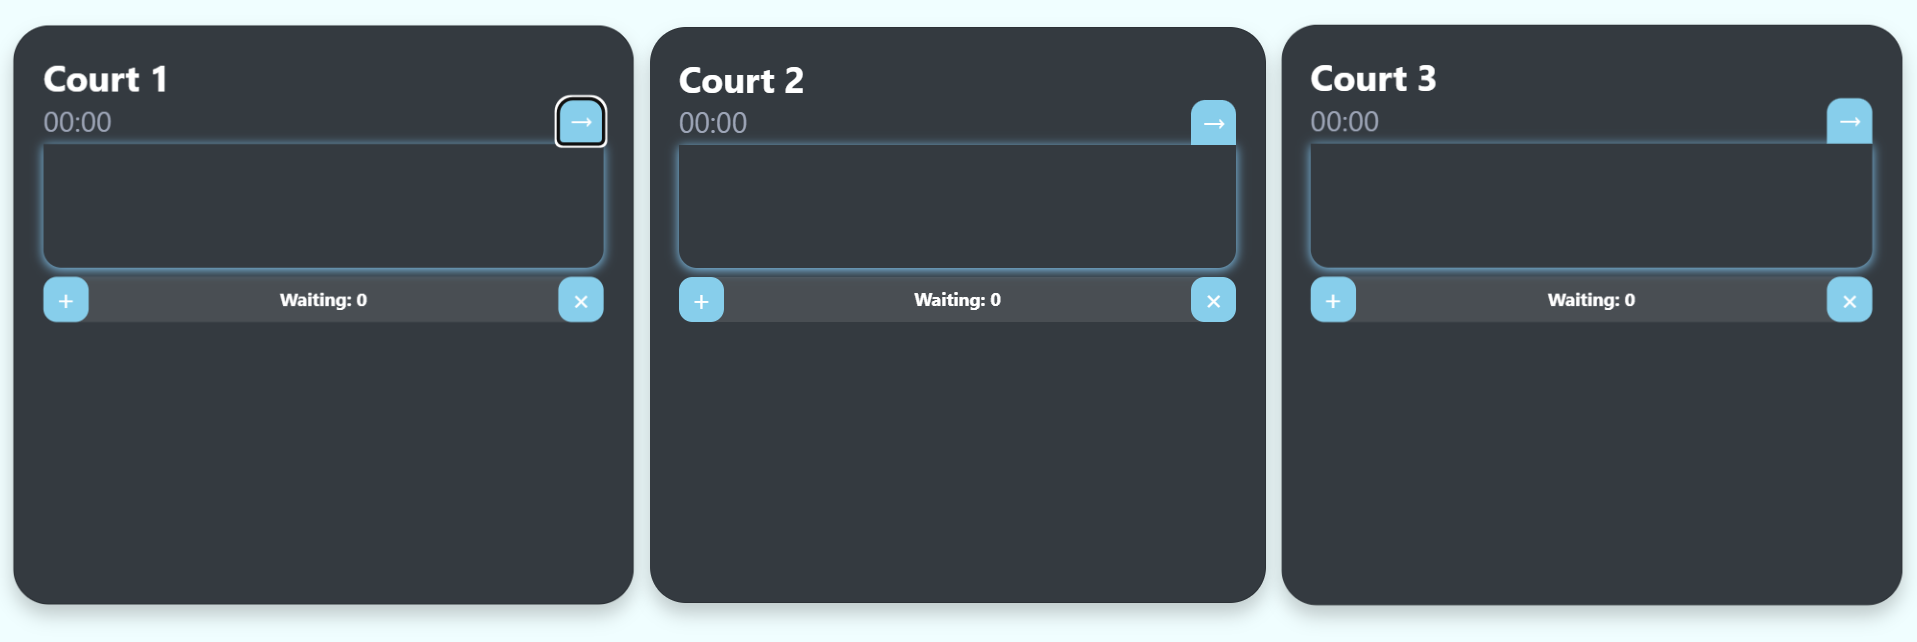
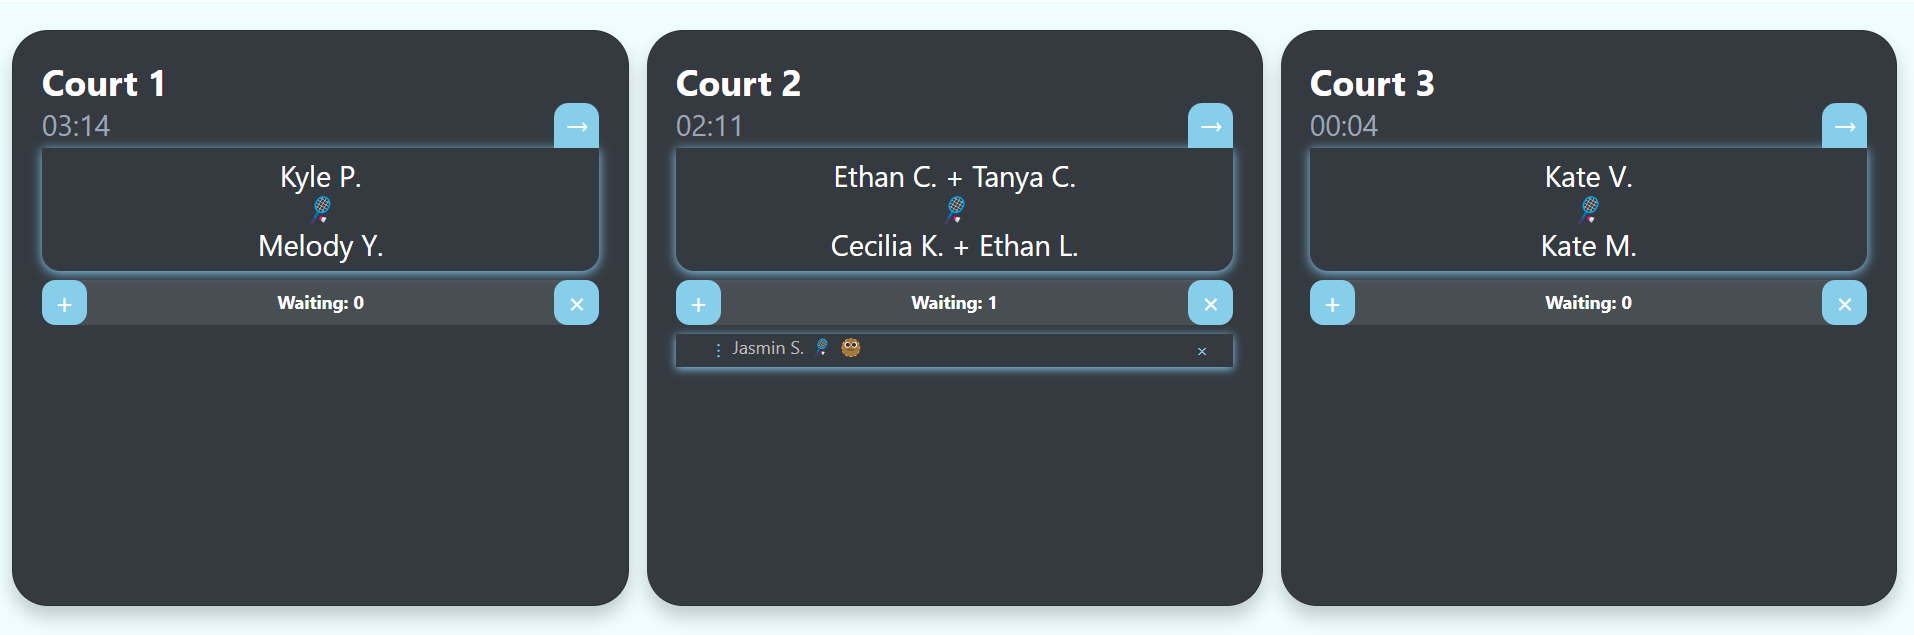
adjusted UI for mobiel

diff --git a/src/components/Timer/Timer.js b/src/components/Timer/Timer.js
@@ -4,23 +4,25 @@ import './Timer.css';
 
 const Timer = forwardRef((props, ref) => {
   const { title } = props;
-  const [start, setStart] = useState(
+  const [startTime, setStartTime] = useState(
     parseInt(localStorage.getItem(`timer-${title}-start`), 10) || Date.now()
   );
-  const [time, setTime] = useState(parseInt(localStorage.getItem(`timer-${title}-time`), 10) || 0);
+  const [elapsedTime, setElapsedTime] = useState(
+    parseInt(localStorage.getItem(`timer-${title}-elapsed`), 10) || 0
+  );
   const [running, setRunning] = useState(
-    localStorage.getItem(`timer-${title}`) === 'true' || false
+    localStorage.getItem(`timer-${title}-running`) === 'true' || false
   );
 
   useImperativeHandle(ref, () => ({
     reset() {
-      setTime(0);
-      setStart(Date.now());
+      setElapsedTime(0);
+      setStartTime(Date.now());
       setRunning(false);
     },
     start() {
       setRunning(true);
-      setStart(Date.now());
+      setStartTime(Date.now());
     },
     stop() {
       setRunning(false);
@@ -32,21 +34,21 @@ const Timer = forwardRef((props, ref) => {
     if (running) {
       interval = setInterval(() => {
         const cur = Date.now();
-        setTime(time + cur - start);
-        setStart(cur);
+        setElapsedTime((prevElapsedTime) => prevElapsedTime + cur - startTime);
+        setStartTime(cur);
       }, 1000);
     }
     return () => clearInterval(interval);
-  }, [running, start, time]);
+  }, [running, startTime]);
 
   useEffect(() => {
-    localStorage.setItem(`timer-${title}-start`, start);
-    localStorage.setItem(`timer-${title}-time`, time);
-    localStorage.setItem(`timer-${title}`, running);
-  }, [title, start, time, running]);
+    localStorage.setItem(`timer-${title}-start`, startTime);
+    localStorage.setItem(`timer-${title}-elapsed`, elapsedTime);
+    localStorage.setItem(`timer-${title}-running`, running);
+  }, [title, startTime, elapsedTime, running]);
 
-  const minutes = Math.floor(time / 60000);
-  const seconds = Math.floor((time / 1000) % 60);
+  const minutes = Math.floor(elapsedTime / 60000);
+  const seconds = Math.floor((elapsedTime / 1000) % 60);
   const minutesStr = minutes < 10 ? `0${minutes}` : minutes.toString();
   const secondsStr = seconds < 10 ? `0${seconds}` : seconds.toString();
 
@@ -62,6 +64,7 @@ const Timer = forwardRef((props, ref) => {
 Timer.propTypes = {
   title: PropTypes.string.isRequired
 };
+
 Timer.displayName = 'Timer';
 
 export default Timer;

diff --git a/src/components/CourtQueue/CourtQueue.css b/src/components/CourtQueue/CourtQueue.css
@@ -15,29 +15,33 @@
   text-shadow : 0px 1px 5px lightskyblue;
 
 }
-.Queue-Box{
-    max-height:22.5vh;
-    overflow-y:scroll;
-    overflow-x:hidden;
-    align-items: center;
-    text-align:center;
-    margin-top: 1vh;
-    box-shadow: 0px 1px 5px lightskyblue;
-    transition-duration: 0.3s;
-}
-.Queue-Box::-webkit-scrollbar {
-    width: 8px;
-    animation-duration: 0.3s;
+.Queue-Box {
+  max-height: 70%;
+  overflow-y: scroll;
+  overflow-x: hidden;
+  align-items: center;
+  justify-content: center;
+  text-align: center;
+  margin-top: 1vh;
+  box-shadow: 0px 1px 5px lightskyblue;
+  transition-duration: 0.3s;
   }
+  
+  .Queue-Box::-webkit-scrollbar {
+  width: 8px;
+  animation-duration: 0.3s;
+  }
+  
   .Queue-Box::-webkit-scrollbar-thumb {
-    background-color: skyblue;
-    border-radius: 8px;
+  background-color: skyblue;
+  border-radius: 8px;
   }
   
   .Queue-Box::-webkit-scrollbar-thumb:hover {
-    background-color: gray;
+  background-color: gray;
   }
-.Queue-Item{
+  
+  .Queue-Item {
   border-color: skyblue;
   font-size: 10px;
   min-height: 4vh;
@@ -45,11 +49,12 @@
   text-align: center;
   color: rgb(190, 188, 188);
   padding-left: 3.5vh;
-  overflow:visible;
-}
-.Queue-Text{
+  overflow: visible;
+  }
+  
+  .Queue-Text {
   margin: 0;
-}
+  }
 .Queue-Item:hover{
   background-color: rgba(255, 255, 255, 0.1);
   color: white;

diff --git a/src/components/FreePlay/FreePlay.css b/src/components/FreePlay/FreePlay.css
@@ -51,12 +51,10 @@
 .court{
   box-shadow: 0 6px 10px rgba(0, 0, 0, 0.2);
   margin: 10px;
-  min-height: 70vh;
+  min-height: calc(70vh - 10px);
   transition: all 0.3s;
   background-color: #343a40 !important;
   border-radius: 20px !important;
-  
-
 }
 .court .court-title{
   color: white;

diff --git a/src/components/CourtQueue/CourtQueue.js b/src/components/CourtQueue/CourtQueue.js
@@ -258,7 +258,7 @@ function CourtQueue(props) {
             zIndex: 9998,
             display: 'flex',
             justifyContent: 'center',
-            height: '25px',
+            height: '100%',
             width: '100%',
             top: '.001vh',
             position: 'absolute',

diff --git a/src/components/QueueReserve/QueueReserve.js b/src/components/QueueReserve/QueueReserve.js
@@ -199,7 +199,7 @@ function QueueReserve(props) {
         autohide
         style={{
           width: '300%',
-          height: '8vh',
+          height: '80%',
           color: 'black',
           backgroundColor: 'white'
         }}
